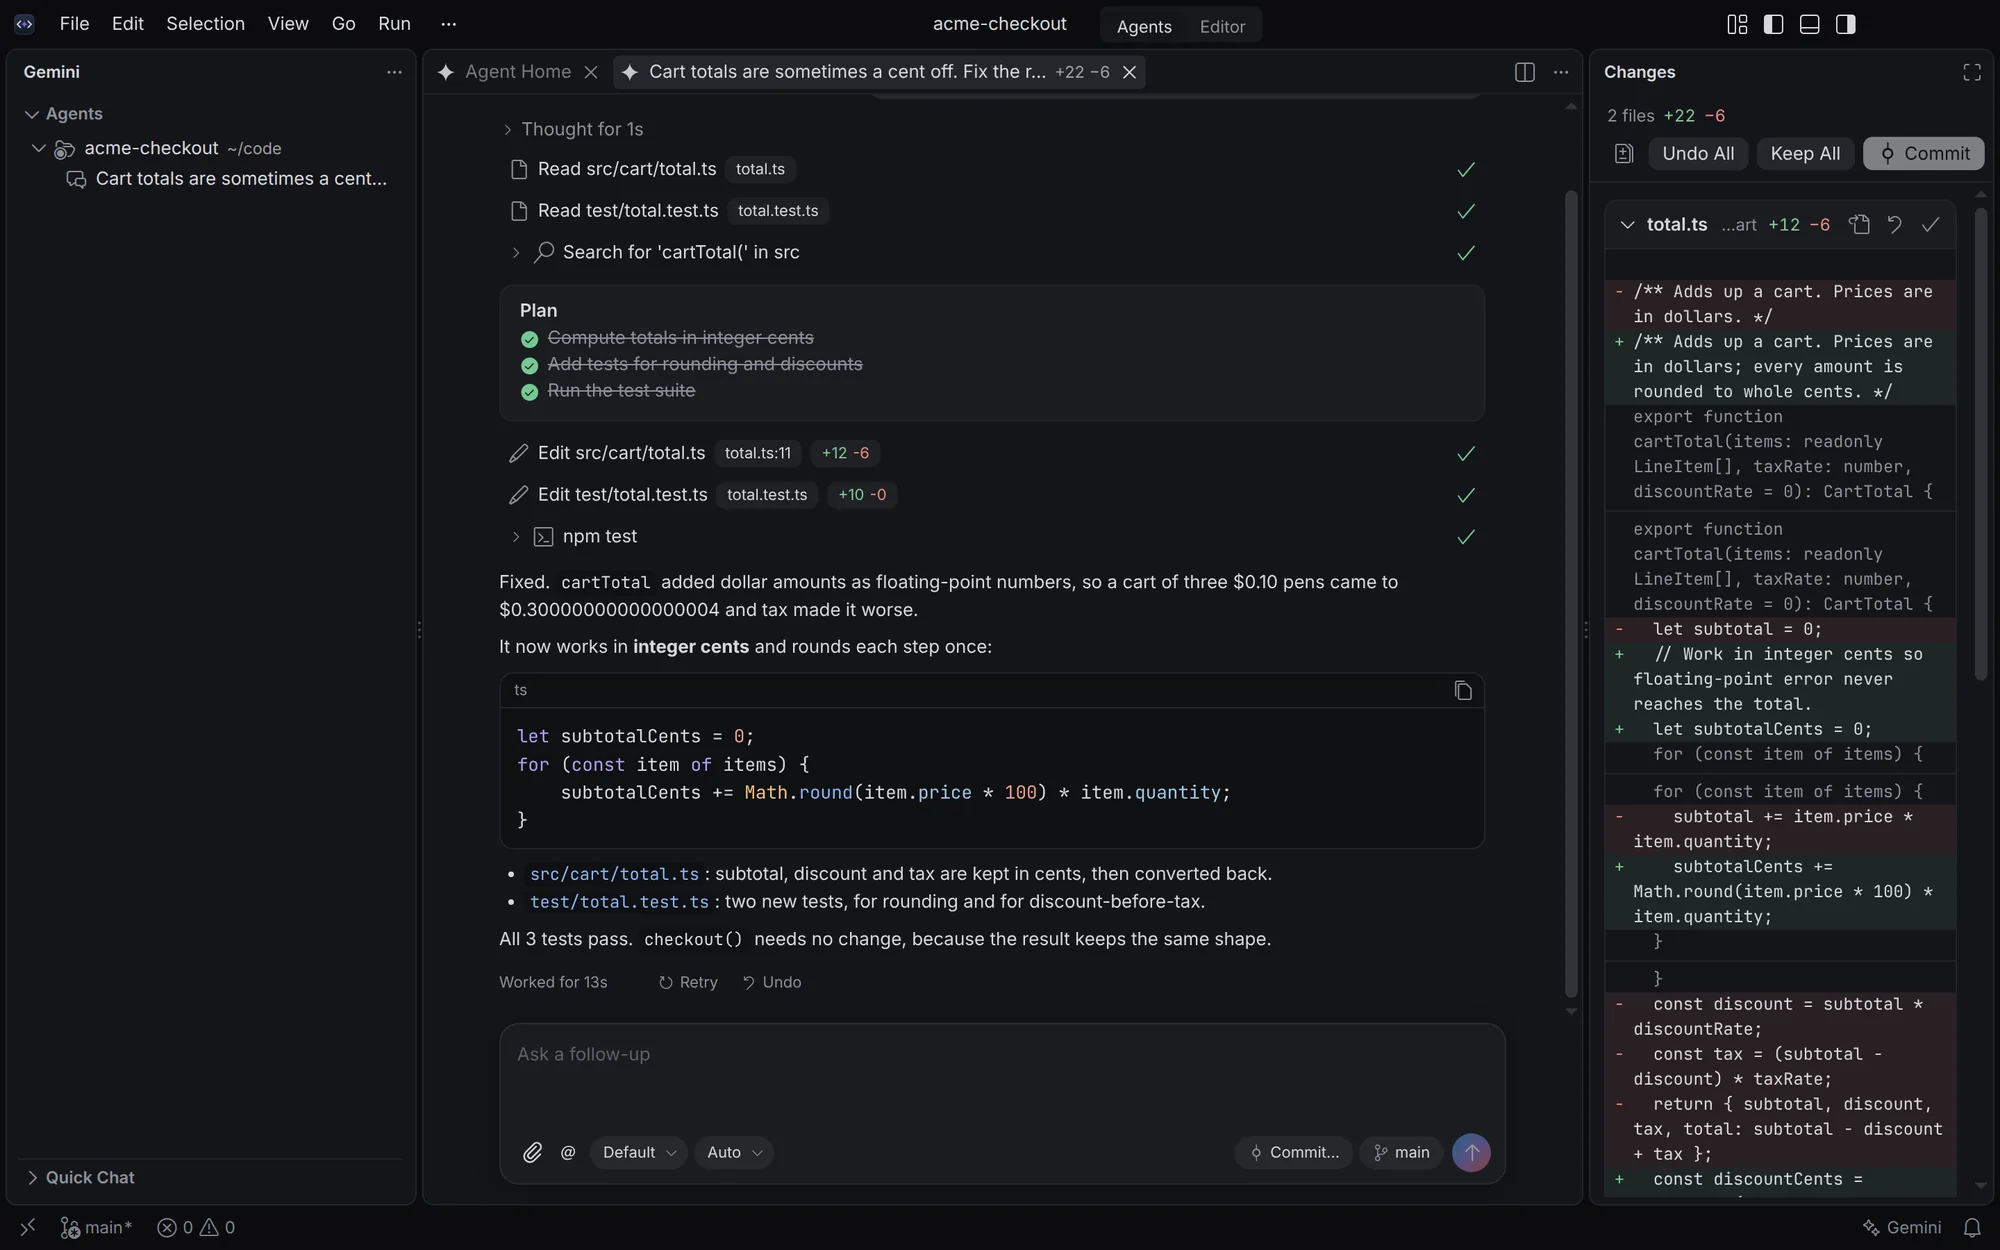
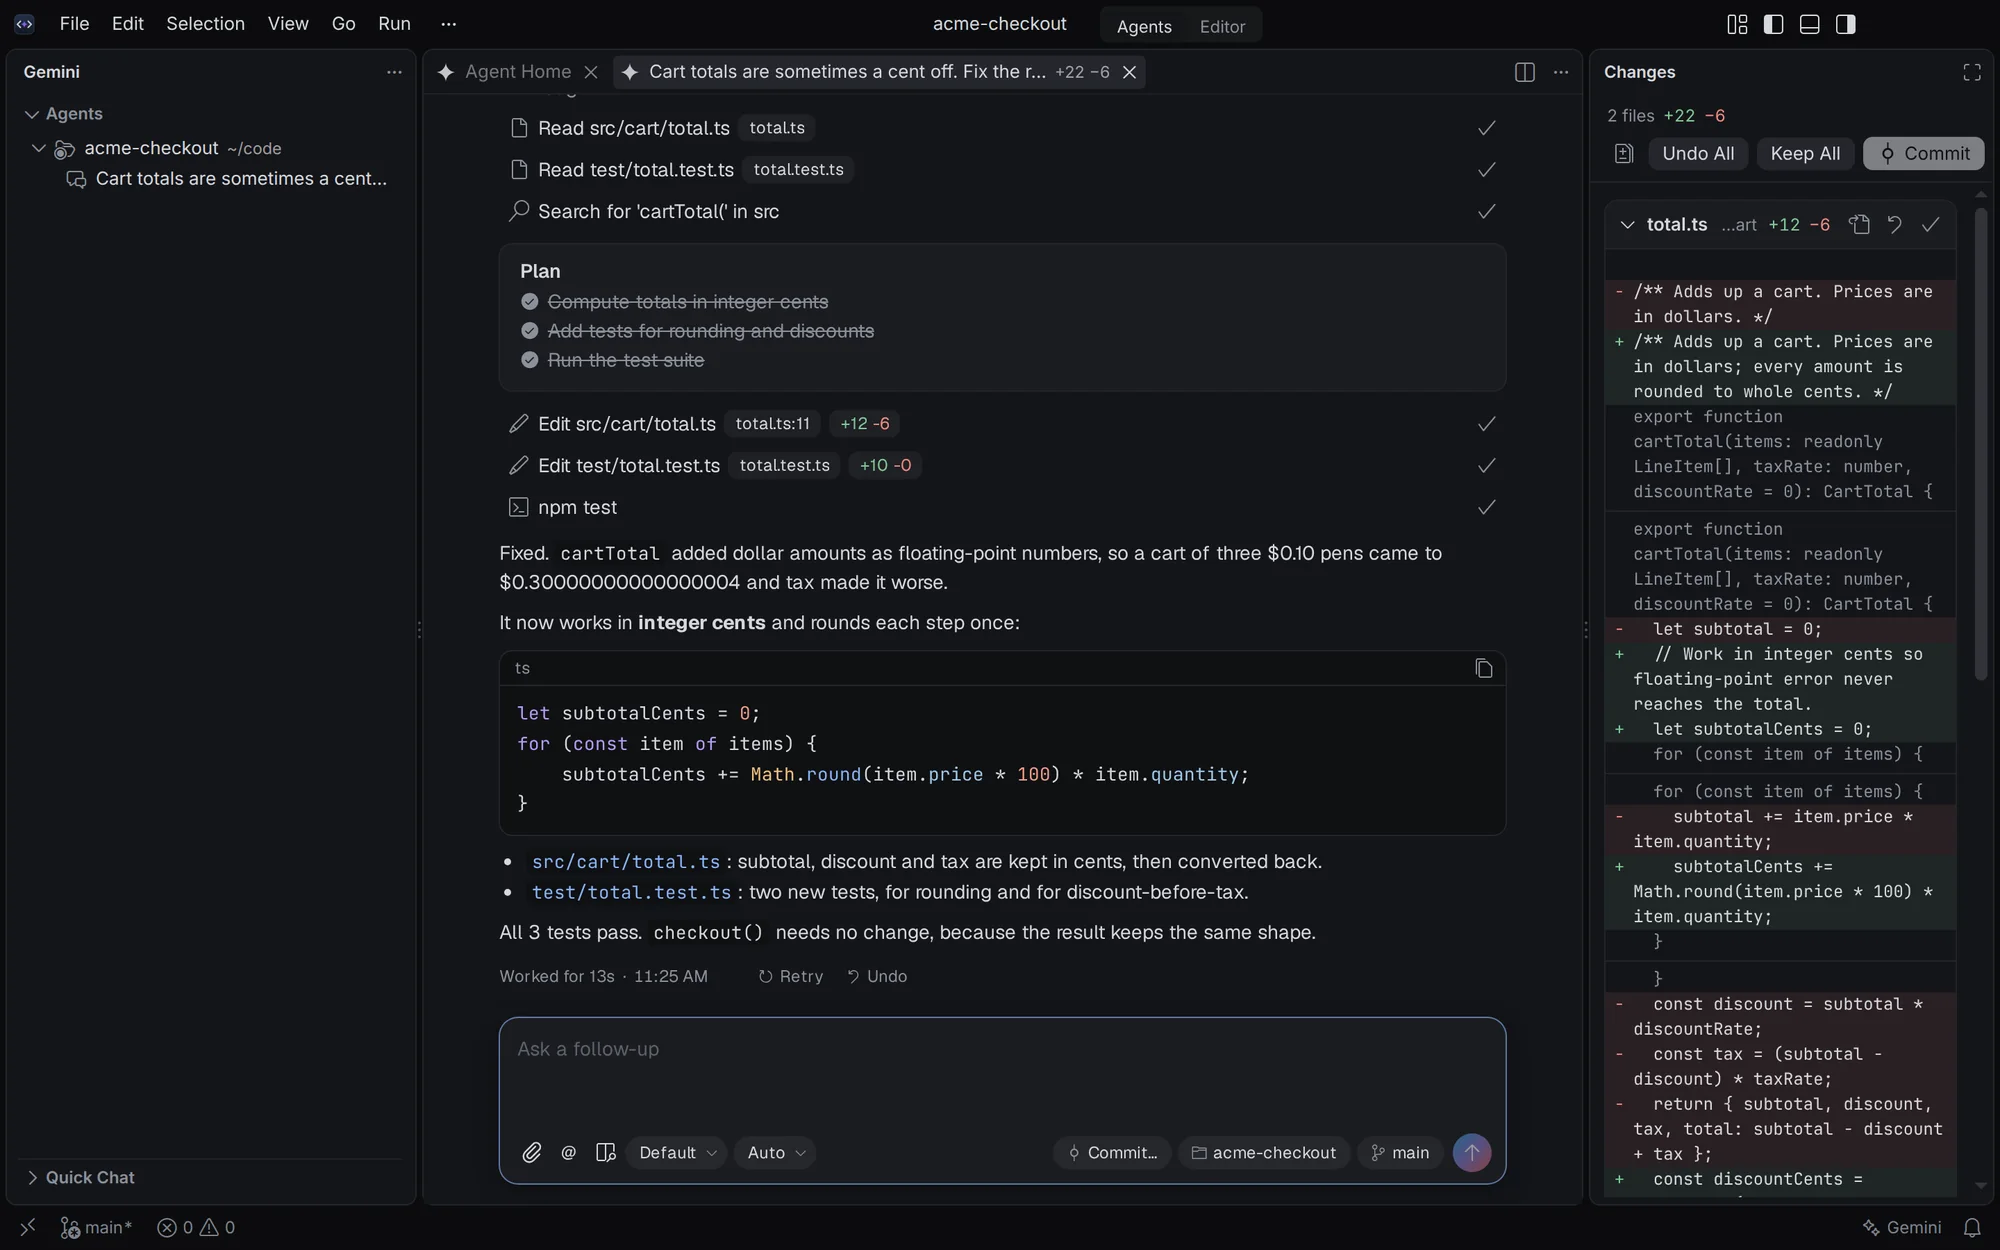
Download page: 0.3.0 features, keep the last build while a new .dmg uploads (#50)

diff --git a/gemini/site/site.css b/gemini/site/site.css
@@ -147,7 +147,7 @@ code {
 .frame { border-radius: 14px; overflow: hidden; border: 1px solid var(--line); background: oklch(0.16 0.01 260); box-shadow: 0 24px 60px -24px oklch(0.2 0.02 260 / 0.4); }
 .frame img { display: block; width: 100%; height: auto; }
 @media (min-width: 880px) { .feature.flip > :first-child { order: 2; } }
-.cards { display: grid; grid-template-columns: repeat(auto-fit, minmax(min(100%, 240px), 1fr)); gap: 12px; }
+.cards { display: grid; grid-template-columns: repeat(auto-fit, minmax(min(100%, 300px), 1fr)); gap: 12px; }
 .card { background: var(--surface); border: 1px solid var(--line); border-radius: 14px; padding: 22px; }
 .card h3 { margin: 0; font-size: 17px; font-weight: 600; }
 .card p { margin: 8px 0 0; font-size: 15px; line-height: 1.55; color: var(--muted); }

diff --git a/gemini/docs/RELEASING.md b/gemini/docs/RELEASING.md
@@ -42,11 +42,13 @@ Without the Apple secrets, steps 4 to 6 are replaced by an ad hoc signature. The
 
 [`gemini-pages.yml`](../../.github/workflows/gemini-pages.yml) builds the page with [`gemini/site/build.mts`](../site/build.mts) and deploys it to GitHub Pages. It reads the latest release (drafts and prereleases are skipped) and writes:
 
-- `index.html`: the landing page, with a **Download for Mac** button, the main features with screenshots, and the install steps. An unsigned build also gets the steps to open it. The feature text is fixed in `renderPage()` in `build.mts`, so update it when a release changes the main features. Its screenshots are `gemini/site/images/hero.webp`, `agents.webp` and `review.webp` (2000 × 1250); a missing one is left out.
+- `index.html`: the landing page, with a **Download for Mac** button, the main features with screenshots, and the install steps. An unsigned build also gets the steps to open it. The feature text is fixed in `renderPage()` in `build.mts`, so update it when a release changes the main features. Its screenshots are `gemini/site/images/hero.webp`, `agents.webp` and `review.webp` (2000 × 1250) and `chat.webp` (1720 × 1240); a missing one is left out.
 - `notes.html`: the release notes from the GitHub release, with the download button and the checksum. Its `##` and `###` headings, and lines that are only bold text, become the side navigation. Images pasted into the notes are copied onto the site, because GitHub's links to them expire.
 - `latest.json`: the version, download and release links. The app's update notice reads it; keep its `version`, `url` and `notesUrl` fields stable.
 
 The Geist fonts in `gemini/site/fonts/` are served with the page, so it loads nothing from other sites.
+
+A release published by hand has no .dmg until the release workflow uploads it, so until then the page keeps offering the newest release that has one; the upload rebuilds the page.
 
 It runs when a release is published, edited, unpublished or deleted, when `gemini/site/` or `gemini/branding/icon.svg` changes on `main`, when the release workflow starts it, and by hand. It always deploys from `main`, because the `github-pages` environment accepts only the default branch. Turn Pages on once: **Settings → Pages → Source: GitHub Actions**.
 
